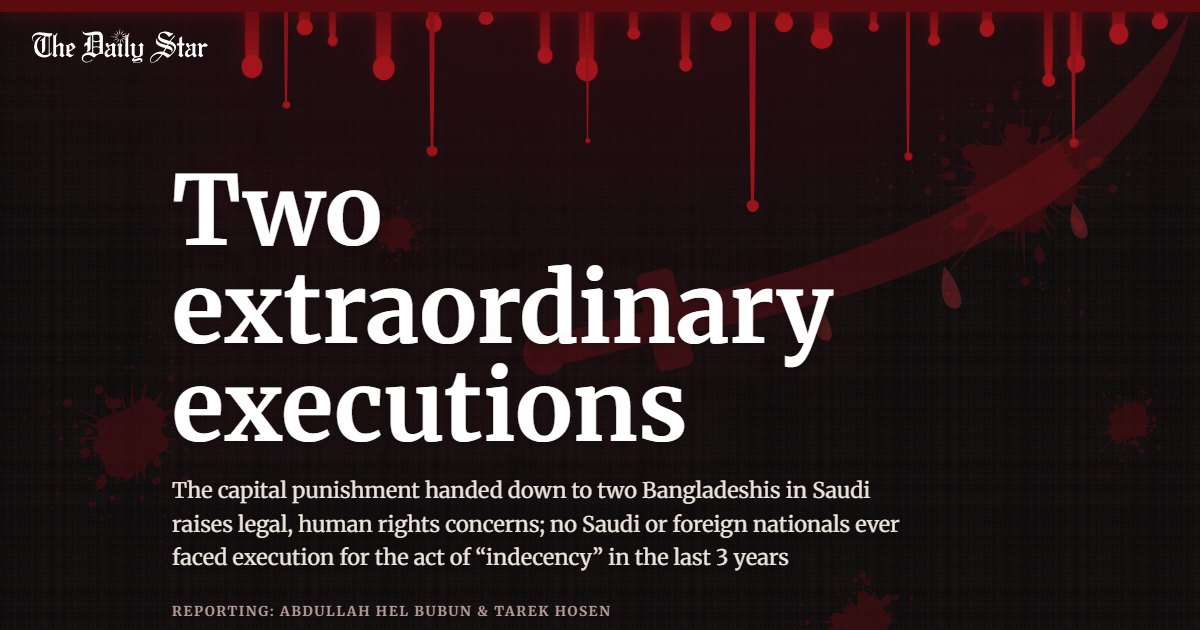
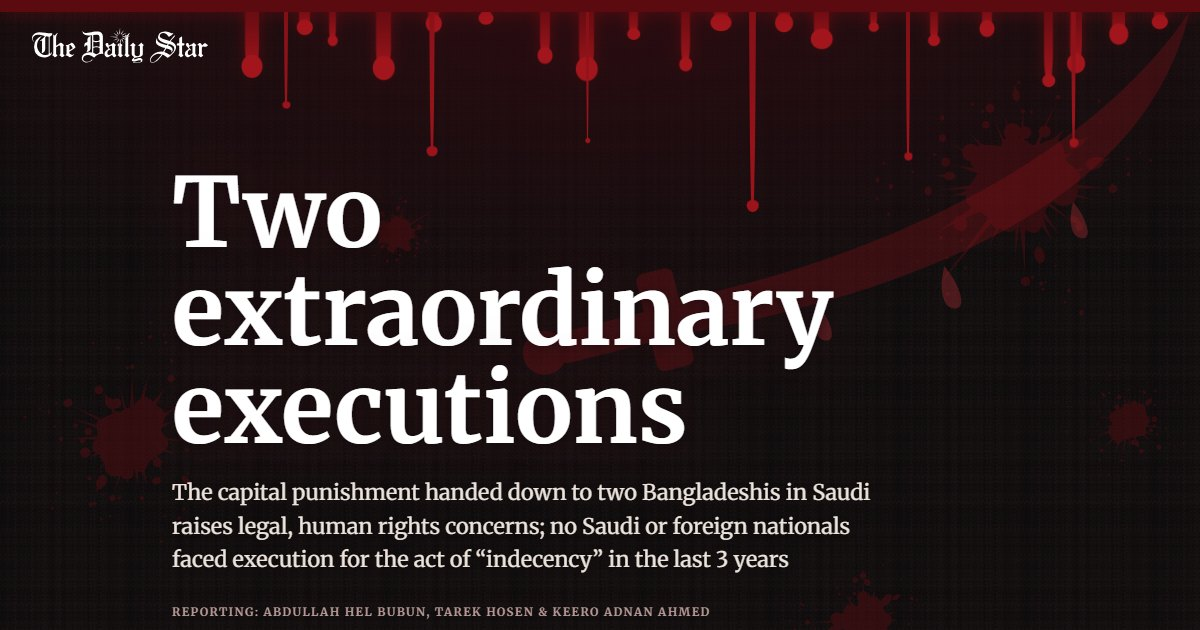
Scene 1's 15 on one row; byline adds Keero Adnan Ahmed; Data Collection credit
- The 15 al-fahisha/sexual-offence figures form one run (2 murder, 11 other, then
  Sweety and Nazrul); the grid keeps that run on one row at every width
- Card 4: "gross sexual misconduct or al-fahisha" back to plain text
- Byline: "Reporting: Abdullah Hel Bubun, Tarek Hosen & Keero Adnan Ahmed", smaller;
  Keero added as author in meta and JSON-LD; share images re-shot
- Footer: "Data Collection: Mir Rownak" replaces "Additional reporting"
- Scene 2 card 2: trailing comma removed

diff --git a/index.html b/index.html
@@ -6,7 +6,7 @@
 <script>(function(l){if(!/(\/|\.html?)$/.test(l.pathname))l.replace(l.pathname+'/'+l.search+l.hash)})(location);document.documentElement.className+=' js'</script>
 <title>Two extraordinary executions | The Daily Star</title>
 <meta name="description" content="A Daily Star analysis of 665 Saudi government execution statements between January 2024 and 20 October 2026 reveals that the execution of Nazrul and Sweety was extremely unusual.">
-<meta name="author" content="Abdullah Hel Bubun, Tarek Hosen">
+<meta name="author" content="Abdullah Hel Bubun, Tarek Hosen, Keero Adnan Ahmed">
 <meta name="keywords" content="Saudi Arabia executions, Saudi Arabia death penalty, Bangladeshi executed in Saudi Arabia, Nazrul Islam Abdul Basir, Sweety Akhtar, Nazrul and Sweety execution, fahisha, indecency execution Makkah, ta'zir, qisas, hudud, Saudi Interior Ministry, Saudi war on drugs, drug-related executions, captagon, foreign nationals executed in Saudi Arabia, migrant workers Saudi Arabia, Bangladeshi migrants, Amnesty International, Reprieve, European Saudi Organization for Human Rights, most serious crimes international law, Islamic law death penalty, Saudi executions 2025, Saudi executions 2026, The Daily Star investigation">
 <meta name="news_keywords" content="Saudi Arabia executions, Saudi Arabia death penalty, Bangladeshi executed in Saudi Arabia, Nazrul Islam Abdul Basir, Sweety Akhtar, Nazrul and Sweety execution, fahisha, indecency execution Makkah, ta'zir, qisas">
 <meta name="robots" content="index, follow, max-image-preview:large, max-snippet:-1, max-video-preview:-1">
@@ -31,6 +31,7 @@
 <meta property="og:updated_time" content="2026-10-29T00:00:00+06:00">
 <meta property="article:author" content="Abdullah Hel Bubun">
 <meta property="article:author" content="Tarek Hosen">
+<meta property="article:author" content="Keero Adnan Ahmed">
 <meta property="article:tag" content="Saudi Arabia executions">
 <meta property="article:tag" content="Saudi Arabia death penalty">
 <meta property="article:tag" content="Bangladeshi executed in Saudi Arabia">
@@ -51,7 +52,7 @@
 <meta name="twitter:description" content="A Daily Star analysis of 665 Saudi government execution statements between January 2024 and 20 October 2026 reveals that the execution of Nazrul and Sweety was extremely unusual.">
 <meta name="twitter:image" content="https://campaign.thedailystar.net/saudi-execution/img/share.jpg">
 <meta name="twitter:image:alt" content="The story’s opening screen: the headline Two extraordinary executions, the standfirst and the byline over blood drips, splatters and a sword">
-<script type="application/ld+json">{"@context": "https://schema.org", "@type": "NewsArticle", "mainEntityOfPage": {"@type": "WebPage", "@id": "https://campaign.thedailystar.net/saudi-execution/"}, "url": "https://campaign.thedailystar.net/saudi-execution/", "headline": "Two extraordinary executions", "alternativeHeadline": "The capital punishment handed down to two Bangladeshis in Saudi raises legal, human rights concerns; no Saudi or foreign nationals faced execution for the act of “indecency” in the last 3 years", "description": "A Daily Star analysis of 665 Saudi government execution statements between January 2024 and 20 October 2026 reveals that the execution of Nazrul and Sweety was extremely unusual.", "image": ["https://campaign.thedailystar.net/saudi-execution/img/share-16x9.jpg", "https://campaign.thedailystar.net/saudi-execution/img/share-4x3.jpg", "https://campaign.thedailystar.net/saudi-execution/img/share-1x1.jpg", "https://campaign.thedailystar.net/saudi-execution/img/share.jpg"], "thumbnailUrl": "https://campaign.thedailystar.net/saudi-execution/img/share.jpg", "datePublished": "2026-10-29T00:00:00+06:00", "dateModified": "2026-10-29T00:00:00+06:00", "inLanguage": "en", "isAccessibleForFree": true, "articleSection": "Investigation", "keywords": ["Saudi Arabia executions", "Saudi Arabia death penalty", "Bangladeshi executed in Saudi Arabia", "Nazrul Islam Abdul Basir", "Sweety Akhtar", "Nazrul and Sweety execution", "fahisha", "indecency execution Makkah", "ta'zir", "qisas", "hudud", "Saudi Interior Ministry", "Saudi war on drugs", "drug-related executions", "captagon", "foreign nationals executed in Saudi Arabia", "migrant workers Saudi Arabia", "Bangladeshi migrants", "Amnesty International", "Reprieve", "European Saudi Organization for Human Rights", "most serious crimes international law", "Islamic law death penalty", "Saudi executions 2025", "Saudi executions 2026", "The Daily Star investigation"], "author": [{"@type": "Person", "name": "Abdullah Hel Bubun"}, {"@type": "Person", "name": "Tarek Hosen"}], "contributor": [{"@type": "Person", "name": "Keero Adnan Ahmed"}, {"@type": "Person", "name": "Mir Rownak"}], "publisher": {"@type": "NewsMediaOrganization", "name": "The Daily Star", "url": "https://www.thedailystar.net/", "logo": {"@type": "ImageObject", "url": "https://campaign.thedailystar.net/saudi-execution/img/logo.png", "width": 600, "height": 60}, "sameAs": ["https://www.facebook.com/dailystarnews", "https://x.com/dailystarnews", "https://www.youtube.com/channel/UCKSJ5rTXq-pYgAmAOhVS_zQ", "https://www.instagram.com/dailystar_bd/", "https://www.linkedin.com/company/thedailystar/"]}, "contentLocation": {"@type": "Place", "name": "Makkah, Saudi Arabia"}, "wordCount": 1944, "copyrightYear": 2026, "copyrightHolder": {"@type": "NewsMediaOrganization", "name": "The Daily Star"}, "about": [{"@type": "Thing", "name": "Capital punishment in Saudi Arabia"}, {"@type": "Thing", "name": "Bangladeshi migrant workers"}], "mentions": [{"@type": "Person", "name": "Nazrul Islam Abdul Basir"}, {"@type": "Person", "name": "Sweety Akhtar"}, {"@type": "Organization", "name": "Amnesty International"}, {"@type": "Organization", "name": "Reprieve"}, {"@type": "Organization", "name": "European Saudi Organization for Human Rights"}, {"@type": "GovernmentOrganization", "name": "Ministry of Interior, Saudi Arabia"}]}</script>
+<script type="application/ld+json">{"@context": "https://schema.org", "@type": "NewsArticle", "mainEntityOfPage": {"@type": "WebPage", "@id": "https://campaign.thedailystar.net/saudi-execution/"}, "url": "https://campaign.thedailystar.net/saudi-execution/", "headline": "Two extraordinary executions", "alternativeHeadline": "The capital punishment handed down to two Bangladeshis in Saudi raises legal, human rights concerns; no Saudi or foreign nationals faced execution for the act of “indecency” in the last 3 years", "description": "A Daily Star analysis of 665 Saudi government execution statements between January 2024 and 20 October 2026 reveals that the execution of Nazrul and Sweety was extremely unusual.", "image": ["https://campaign.thedailystar.net/saudi-execution/img/share-16x9.jpg", "https://campaign.thedailystar.net/saudi-execution/img/share-4x3.jpg", "https://campaign.thedailystar.net/saudi-execution/img/share-1x1.jpg", "https://campaign.thedailystar.net/saudi-execution/img/share.jpg"], "thumbnailUrl": "https://campaign.thedailystar.net/saudi-execution/img/share.jpg", "datePublished": "2026-10-29T00:00:00+06:00", "dateModified": "2026-10-29T00:00:00+06:00", "inLanguage": "en", "isAccessibleForFree": true, "articleSection": "Investigation", "keywords": ["Saudi Arabia executions", "Saudi Arabia death penalty", "Bangladeshi executed in Saudi Arabia", "Nazrul Islam Abdul Basir", "Sweety Akhtar", "Nazrul and Sweety execution", "fahisha", "indecency execution Makkah", "ta'zir", "qisas", "hudud", "Saudi Interior Ministry", "Saudi war on drugs", "drug-related executions", "captagon", "foreign nationals executed in Saudi Arabia", "migrant workers Saudi Arabia", "Bangladeshi migrants", "Amnesty International", "Reprieve", "European Saudi Organization for Human Rights", "most serious crimes international law", "Islamic law death penalty", "Saudi executions 2025", "Saudi executions 2026", "The Daily Star investigation"], "author": [{"@type": "Person", "name": "Abdullah Hel Bubun"}, {"@type": "Person", "name": "Tarek Hosen"}, {"@type": "Person", "name": "Keero Adnan Ahmed"}], "contributor": [{"@type": "Person", "name": "Mir Rownak"}], "publisher": {"@type": "NewsMediaOrganization", "name": "The Daily Star", "url": "https://www.thedailystar.net/", "logo": {"@type": "ImageObject", "url": "https://campaign.thedailystar.net/saudi-execution/img/logo.png", "width": 600, "height": 60}, "sameAs": ["https://www.facebook.com/dailystarnews", "https://x.com/dailystarnews", "https://www.youtube.com/channel/UCKSJ5rTXq-pYgAmAOhVS_zQ", "https://www.instagram.com/dailystar_bd/", "https://www.linkedin.com/company/thedailystar/"]}, "contentLocation": {"@type": "Place", "name": "Makkah, Saudi Arabia"}, "wordCount": 1944, "copyrightYear": 2026, "copyrightHolder": {"@type": "NewsMediaOrganization", "name": "The Daily Star"}, "about": [{"@type": "Thing", "name": "Capital punishment in Saudi Arabia"}, {"@type": "Thing", "name": "Bangladeshi migrant workers"}], "mentions": [{"@type": "Person", "name": "Nazrul Islam Abdul Basir"}, {"@type": "Person", "name": "Sweety Akhtar"}, {"@type": "Organization", "name": "Amnesty International"}, {"@type": "Organization", "name": "Reprieve"}, {"@type": "Organization", "name": "European Saudi Organization for Human Rights"}, {"@type": "GovernmentOrganization", "name": "Ministry of Interior, Saudi Arabia"}]}</script>
 <link rel="icon" href="img/favicon.ico" sizes="16x16">
 <link rel="sitemap" type="application/xml" title="Sitemap" href="sitemap.xml">
 <link rel="preload" href="fonts/merriweather-700.woff2" as="font" type="font/woff2" crossorigin>
@@ -133,7 +134,7 @@ h1:focus{outline:0}
 @media (max-width:420px){h1{font-size:10.2vw}}
 .dek{max-width:34em;margin:0 0 1.6rem;font-size:clamp(1.05rem,.95rem + .6vw,1.35rem);line-height:1.55;color:var(--ink);text-shadow:0 2px 12px rgba(8,5,6,.7)}
 
-.by{font:700 .85rem/1.8 var(--serif);letter-spacing:.12em;text-transform:uppercase;color:var(--dim);margin:0}
+.by{font:700 .72rem/1.8 var(--serif);letter-spacing:.12em;text-transform:uppercase;color:var(--dim);margin:0}
 
 /* ---------- story ---------- */
 main{display:block;padding:clamp(64px,10vh,120px) 0 clamp(48px,8vh,96px)}
@@ -386,13 +387,13 @@ dialog.prm::backdrop{background:rgba(0,0,0,.8)}
 <header class="hero" id="top">
 <div class="hero__art" aria-hidden="true"><div class="hero__glow"></div><svg class="spl" style="left:85%;top:26%;--s:300px;--r:0deg"><use href="#spl3"/></svg><svg class="spl" style="left:11%;top:62%;--s:240px;--r:70deg"><use href="#spl"/></svg><svg class="spl" style="left:72%;top:88%;--s:190px;--r:140deg"><use href="#spl2"/></svg><svg class="spl" style="left:33%;top:33%;--s:100px;--r:200deg"><use href="#spl3"/></svg><svg class="spl" style="left:94%;top:60%;--s:130px;--r:260deg"><use href="#spl"/></svg><svg class="sword" viewBox="0 0 500 220" aria-hidden="true"><path d="M130 118C250 122 400 100 492 18C446 108 330 152 130 140Z"/><rect x="106" y="96" width="24" height="64" rx="5"/><path d="M108 120H52a8 8 0 0 0 0 20h56z"/><circle cx="38" cy="130" r="14"/><path class="dr" d="M300 138c-7 14-8 26 0 28s7-14 0-28zM390 118c-6 12-7 22 0 24s6-12 0-24zM215 140c-6 14-7 24 0 26s6-12 0-26z"/></svg><div class="drips"><i style="left:1.8%;height:67px;width:14px;animation-duration:9.3s;animation-delay:-4.1s"></i><i style="left:7.3%;height:32px;width:11px;animation-duration:10.4s;animation-delay:-6.3s"></i><i style="left:10.4%;height:38px;width:7px;animation-duration:11.7s;animation-delay:-5.5s"></i><i style="left:15.2%;height:69px;width:15px;animation-duration:10.6s;animation-delay:-4.9s"></i><i style="left:20.6%;height:25px;width:11px;animation-duration:6.4s;animation-delay:-1.5s"></i><i style="left:26.0%;height:25px;width:10px;animation-duration:9.1s;animation-delay:-6.7s"></i><i style="left:32.1%;height:53px;width:10px;animation-duration:10.6s;animation-delay:-3.7s"></i><i style="left:36.1%;height:70px;width:15px;animation-duration:11.9s;animation-delay:-5.7s"></i><i style="left:41.3%;height:41px;width:9px;animation-duration:6.5s;animation-delay:-6.1s"></i><i style="left:46.6%;height:63px;width:9px;animation-duration:12.7s;animation-delay:-6.8s"></i><i style="left:50.0%;height:34px;width:14px;animation-duration:9.3s;animation-delay:-7.8s"></i><i style="left:56.6%;height:27px;width:12px;animation-duration:11.4s;animation-delay:-2.2s"></i><i style="left:60.3%;height:49px;width:15px;animation-duration:11.3s;animation-delay:-0.9s"></i><i style="left:66.0%;height:29px;width:7px;animation-duration:11.6s;animation-delay:-1.4s"></i><i style="left:72.2%;height:45px;width:8px;animation-duration:11.1s;animation-delay:-1.0s"></i><i style="left:77.6%;height:29px;width:10px;animation-duration:7.5s;animation-delay:-2.2s"></i><i style="left:83.9%;height:85px;width:9px;animation-duration:12.2s;animation-delay:-1.7s"></i><i style="left:86.6%;height:63px;width:12px;animation-duration:6.7s;animation-delay:-7.9s"></i><i style="left:90.9%;height:36px;width:13px;animation-duration:8.3s;animation-delay:-2.4s"></i><i style="left:95.3%;height:28px;width:11px;animation-duration:7.7s;animation-delay:-4.8s"></i><span class="run w" style="left:6%;--w:4px;--len:44%;--from:0.35"><i></i></span><span class="run" style="left:21%;--w:6px;--len:100%;--from:0.22"><i></i></span><span class="run w" style="left:37%;--w:3px;--len:68%;--from:0.3"><i></i></span><span class="run" style="left:54%;--w:7px;--len:100%;--from:0.3"><i></i></span><span class="run w" style="left:70%;--w:4px;--len:57%;--from:0.4"><i></i></span><span class="run" style="left:87%;--w:5px;--len:83%;--from:0.25"><i></i></span></div><div class="band"></div><div class="pool"></div></div>
 <div class="masthead"><a href="https://www.thedailystar.net" target="_blank" rel="noopener" aria-label="The Daily Star home (opens in a new tab)"><svg class="tds-logo" viewBox="0 0 321.41 63.84" aria-hidden="true"><use href="#tds-logo"/></svg></a></div>
-<div class="hero__body"><h1 tabindex="-1">Two extraordinary executions</h1><p class="dek">The capital punishment handed down to two Bangladeshis in Saudi raises legal, human rights concerns; no Saudi or foreign nationals faced execution for the act of “indecency” in the last 3 years</p><p class="by">Reporting: Abdullah Hel Bubun &amp; Tarek Hosen</p></div>
+<div class="hero__body"><h1 tabindex="-1">Two extraordinary executions</h1><p class="dek">The capital punishment handed down to two Bangladeshis in Saudi raises legal, human rights concerns; no Saudi or foreign nationals faced execution for the act of “indecency” in the last 3 years</p><p class="by">Reporting: Abdullah Hel Bubun, Tarek Hosen &amp; Keero Adnan Ahmed</p></div>
 </header>
 <main id="story">
 <div class="txt"><p>Nazrul Islam Abdul Basir and Sweety Akhtar left Bangladesh for Saudi Arabia in 2022, hoping for a better life. Both used to work as cleaners for a Saudi company called AL-Majal to support their families back home.</p>
 <p>On October 14 this year, the Saudi authorities executed them for committing an act of <mark class="r">‘fahisha’ or gross sexual indecency</mark>, inside a mosque in Makkah. The term al-fahisha encompasses a range of sexual offenses including adultery, fornication, indecent exposure, or severe harassment.</p>
 <p>In a <button type="button" class="prl" id="prOpen" aria-haspopup="dialog">statement</button> announcing the executions, the Saudi Interior Ministry said the punishment reflected the “seriousness and gravity” of the crime which it said violated the <mark class="r">“sanctity of the time and place”</mark>. However, a Daily Star analysis of 665 Saudi government execution statements between January 2024 and 20 October 2026 reveals that the execution was extremely unusual.</p></div>
-<section class="scrolly" id="s1"><div class="sticky"><div class="chart"><div class="legw"><div class="leg" aria-hidden="true"></div></div><div class="plot"><canvas role="img" aria-label="Dot chart: each of the 887 people executed in Saudi Arabia from January 2024 to 20 October 2026, coloured by offence"></canvas><span class="lab"></span><span class="lab"></span></div></div></div><div class="steps"><div class="step"><p>Each icon represents one of the 887 people Saudi Arabia executed over the past three years. Only China and Iran executed more during this period. Rights groups believe the real number is even higher, due to a lack of transparency in Saudi’s official reporting.</p></div><div class="step"><p>Drug-related offences — which right groups stress fail to meet the international legal threshold of a “most serious crime”— accounted for more than half of the executions (<mark class="k k-d">53.78 pc</mark>) carried out.</p></div><div class="step"><p>Murder convictions were responsible for another <mark class="k k-m">34 percent</mark>, often coupled with other charges such as armed robbery and kidnapping.</p></div><div class="step"><p>Armed robbery, terrorism, rape, kidnapping, treason and <mark class="g">gross sexual misconduct or al-fahisha</mark> accounted for another <mark class="k k-o">12 percent</mark>.</p></div><div class="step"><p>The kingdom executed <mark class="k k-s">15 individuals</mark> for al-fahisha or sexual offenses during this period.</p></div><div class="step"><p>Out of those, <mark class="k k-s">13 cases</mark> involved rape or sexual assault—frequently accompanied by violent charges such as murder, kidnapping, or robbery.</p></div><div class="step"><p>Only two individuals—Nazrul and Sweety—were put to death for an act of <mark class="g">fahisha</mark> that involved no victims, force, or additional crimes.</p></div></div></section>
+<section class="scrolly" id="s1"><div class="sticky"><div class="chart"><div class="legw"><div class="leg" aria-hidden="true"></div></div><div class="plot"><canvas role="img" aria-label="Dot chart: each of the 887 people executed in Saudi Arabia from January 2024 to 20 October 2026, coloured by offence"></canvas><span class="lab"></span><span class="lab"></span></div></div></div><div class="steps"><div class="step"><p>Each icon represents one of the 887 people Saudi Arabia executed over the past three years. Only China and Iran executed more during this period. Rights groups believe the real number is even higher, due to a lack of transparency in Saudi’s official reporting.</p></div><div class="step"><p>Drug-related offences — which right groups stress fail to meet the international legal threshold of a “most serious crime”— accounted for more than half of the executions (<mark class="k k-d">53.78 pc</mark>) carried out.</p></div><div class="step"><p>Murder convictions were responsible for another <mark class="k k-m">34 percent</mark>, often coupled with other charges such as armed robbery and kidnapping.</p></div><div class="step"><p>Armed robbery, terrorism, rape, kidnapping, treason and gross sexual misconduct or al-fahisha accounted for another <mark class="k k-o">12 percent</mark>.</p></div><div class="step"><p>The kingdom executed <mark class="k k-s">15 individuals</mark> for al-fahisha or sexual offenses during this period.</p></div><div class="step"><p>Out of those, <mark class="k k-s">13 cases</mark> involved rape or sexual assault—frequently accompanied by violent charges such as murder, kidnapping, or robbery.</p></div><div class="step"><p>Only two individuals—Nazrul and Sweety—were put to death for an act of <mark class="g">fahisha</mark> that involved no victims, force, or additional crimes.</p></div></div></section>
 <div class="txt">
 <p>Duaa Dhainy, a researcher at Berlin-based <a href="https://worldcoalition.org/membre/european-saudi-organization-for-human-rights-esohr/" target="_blank" rel="noopener">European Saudi Organization for Human Rights</a> (ESOHR), called the death penalty for such a non-violent act of indecency “deeply alarming”.</p>
 <p>“The offence (for which Nazrul and Sweety were executed) falls far outside the threshold of the “most serious crimes” under international law, which is restricted to crimes involving intentional killing,” she told this newspaper on October 26.</p>
@@ -429,7 +430,7 @@ dialog.prm::backdrop{background:rgba(0,0,0,.8)}
 <p>For years, human rights groups have called on the Saudi government to put an end to ta’zir executions, as these are not explicitly mandated by Shariah.</p>
 <p>Judges in Saudi Arabia have repeatedly used their discretionary powers (ta’zir) to increase the <mark class="y">severity of punishments</mark>, including by imposing the death penalty, according to a 2025 Amnesty International report.</p>
 <p>The right group also found that ta’zir was the basis for almost half of all (47.5 percent) of all reported executions between January 2014 and January 2025. The Daily Star’s analysis shows that ta’zir-based executions, particularly of non-Saudi nationals, have risen even more steeply over the past three years, with two-thirds capital punishment carried out under this category.</p></div>
-<section class="scrolly" id="s2"><div class="sticky"><div class="chart"><div class="legw"><div class="leg" aria-hidden="true"></div></div><div class="plot"><canvas role="img" aria-label="Dot chart: each of the 887 people executed in Saudi Arabia from January 2024 to 20 October 2026, coloured by punishment category, then the 439 foreign nationals alone"></canvas></div></div></div><div class="steps"><div class="step"><p>Each icon represents one person executed by Saudi authorities between January 2024 and October 2026 (887)</p></div><div class="step"><p>Of the 887 people executed, <mark class="k k-t">64 percent</mark> were under ta’zir,</p></div><div class="step"><p><mark class="k k-q">23 percent</mark> under qisas and <mark class="k k-h">8 percent</mark> under hudud.</p></div><div class="step"><p>Now consider only the foreign nationals executed (439)</p></div><div class="step"><p>An overwhelming <mark class="k k-t">85 percent</mark> of them were executed under ta’zir. Qisas and hudud accounted for the remaining 15 percent.</p></div></div></section>
+<section class="scrolly" id="s2"><div class="sticky"><div class="chart"><div class="legw"><div class="leg" aria-hidden="true"></div></div><div class="plot"><canvas role="img" aria-label="Dot chart: each of the 887 people executed in Saudi Arabia from January 2024 to 20 October 2026, coloured by punishment category, then the 439 foreign nationals alone"></canvas></div></div></div><div class="steps"><div class="step"><p>Each icon represents one person executed by Saudi authorities between January 2024 and October 2026 (887)</p></div><div class="step"><p>Of the 887 people executed, <mark class="k k-t">64 percent</mark> were under ta’zir</p></div><div class="step"><p><mark class="k k-q">23 percent</mark> under qisas and <mark class="k k-h">8 percent</mark> under hudud.</p></div><div class="step"><p>Now consider only the foreign nationals executed (439)</p></div><div class="step"><p>An overwhelming <mark class="k k-t">85 percent</mark> of them were executed under ta’zir. Qisas and hudud accounted for the remaining 15 percent.</p></div></div></section>
 <div class="txt"><h2>Saudi’s ‘war on drugs’</h2>
 <p>Nazrul and Sweety were executed at a time when Saudi Arabia was putting people to death at a pace not seen in decades. The Kingdom executed 356 people in 2025, highest since at least 1990. So far this year, as of October 20, Saudi Arabia has executed at least 186 people, according to this analysis.</p>
 <p>Drug offenses (drug smuggling and trafficking) alone are responsible for nearly two-thirds (65%) of all executions in 2025 and 2026. According to <a href="https://reprieve.org.uk/" target="_blank" rel="noopener">Reprieve</a>, a UK-based human rights organisation, nearly all of these offences are of non-violent nature.</p>
@@ -483,7 +484,7 @@ dialog.prm::backdrop{background:rgba(0,0,0,.8)}
 <a href="https://www.linkedin.com/company/thedailystar/" rel="noopener" target="_blank" aria-label="LinkedIn"><svg aria-hidden="true"><use href="#i-linkedin"/></svg></a>
 </nav>
 <div class="site-footer__credits">
-<p><span>Additional reporting:</span> Keero Adnan Ahmed</p>
+<p><span>Data Collection:</span> Mir Rownak</p>
 <p><span>Planning &amp; Design:</span> Abdullah Hel Bubun</p>
 <p><span>Development:</span> Mir Rownak and Abdullah Hel Bubun</p>
 <p class="site-footer__copy">&copy; 2026 The Daily Star. All rights reserved.</p>
@@ -491,6 +492,6 @@ dialog.prm::backdrop{background:rgba(0,0,0,.8)}
 </div>
 </footer>
 <a class="totop" href="#top" aria-label="Back to top"><svg viewBox="0 0 24 24" aria-hidden="true"><path d="M12 19V5M5.5 11.5 12 5l6.5 6.5"/></svg></a>
-<script src="js/story.js?v=20261029c" defer></script>
+<script src="js/story.js?v=20261029d" defer></script>
 </body>
 </html>

diff --git a/js/story.js b/js/story.js
@@ -53,7 +53,7 @@ function mix(a, b, t) {
 }
 var SIDE = window.matchMedia ? matchMedia('(min-width: 760px) and (min-aspect-ratio: 11/10)') : { matches: false };
 
-function scene(id, L, S) {
+function scene(id, L, S, run) {
   var root = document.getElementById(id); if (!root) return;
   var cv = $('canvas', root), cx = cv.getContext && cv.getContext('2d');
   if (!cx || !window.Path2D || !window.Float32Array) { root.classList.add('nochart'); return; }
@@ -81,12 +81,15 @@ function scene(id, L, S) {
     return (SPR[key] = { c: c, k: kd, ox: ox, oy: oy, w: c.width, h: c.height });
   }
 
-  function grid(list, gw, gh) {
-    var n = list.length, ar = 1.5, c0 = Math.max(1, Math.round(Math.sqrt(n * ar * gw / gh))), best = null;
+  function grid(list, gw, gh, run) {
+    var n = list.length, ar = 1.5, c0 = Math.max(1, Math.round(Math.sqrt(n * ar * gw / gh))), best = null, fit = null;
     for (var c = Math.max(1, c0 - 3); c <= c0 + 3; c++) {
-      var r = Math.ceil(n / c), cw = Math.min(gw / c, gh / r / ar);
-      if (!best || cw > best.cw) best = { c: c, r: r, cw: cw };
+      var r = Math.ceil(n / c), cw = Math.min(gw / c, gh / r / ar), b = { c: c, r: r, cw: cw };
+      if (!best || cw > best.cw) best = b;
+      // a run that must read as one group (scene 1's 15) only takes a column count that keeps it on one row
+      if (run && run.s % c + run.n <= c && (!fit || cw > fit.cw)) fit = b;
     }
+    if (fit) best = fit;
     var ch = best.cw * ar, ox = (gw - best.cw * best.c) / 2, oy = (gh - ch * best.r) / 2, p = { s: ch, x: A().fill(NaN), y: A() };
     list.forEach(function (j, m) { p.x[j] = ox + (m % best.c) * best.cw + best.cw / 2; p.y[j] = oy + Math.floor(m / best.c) * ch + ch / 2; });
     return p;
@@ -98,7 +101,7 @@ function scene(id, L, S) {
         var p = { s: Math.min(100, h * .46), x: A().fill(NaN), y: A() }, dx = Math.min(130, w * .22);
         L.C.forEach(function (j, n) { p.x[j] = w / 2 + (n ? 1 : -1) * dx; p.y[j] = h * .4; });
         pos.C = p;
-      } else pos[k] = grid(L[k], w, h);
+      } else pos[k] = grid(L[k], w, h, k === 'A' ? run : null);
     }
   }
   function targets(n) {
@@ -197,10 +200,13 @@ function scene(id, L, S) {
 guard(function () {
   var cc = cnt(function () { return 1; }, 0), o1 = ['D', 'M', 'O', 'I'];
   // the 15 executed for al-fahisha or sexual offences: offence lists in the names list with rape, sexual assault or
-  // "indecency" (13 + Nazrul and Sweety); each sits last in its group, so they gather at the ends of the murder and other blocks
+  // "indecency" (13 + Nazrul and Sweety). They sit in one run where the murder block meets the other block: murder ones,
+  // then other ones, then Nazrul and Sweety, then the rest of other. Each colour block stays whole on its own card.
   var SX = {};
   [77, 291, 299, 343, 344, 348, 458, 486, 502, 773, 829, 831, 871, SWEETY, NAZRUL].forEach(function (i) { SX[i] = 1; });
-  var A1 = rank(function () { return 1; }, []).sort(function (a, b) { return o1.indexOf(D[a][0]) - o1.indexOf(D[b][0]) || (SX[a] || 0) - (SX[b] || 0) || a - b; });
+  var slot = function (i) { var g = D[i][0]; return g == 'D' ? 0 : g == 'M' ? (SX[i] ? 2 : 1) : g == 'I' ? 4 : SX[i] ? 3 : 5; };
+  var A1 = rank(function () { return 1; }, []).sort(function (a, b) { return slot(a) - slot(b) || a - b; }), r0 = 0;
+  while (!SX[A1[r0]]) r0++;
   var l1 = function (ak) { return legend('887 people executed, 2024–26', ak == null ? [] : o1, ak); };
   var lx = function (k) { return legend('887 people executed, 2024–26', [k], [k]); };
   var f1 = function (show, hi) { return function (x) { var g = x[0] == 'I' && !hi && show.indexOf('I') < 0 ? 'O' : x[0]; return g == 'I' ? [C.I, 1, 1] : show.indexOf(g) >= 0 && !hi ? [C[g], 1] : [G, .35]; }; };
@@ -214,7 +220,7 @@ guard(function () {
     function () { return { l: 'A', leg: lx('S'), f: function (x, i) { return SX[i] ? [C.S, 1] : [G, .35]; } }; },
     function () { return { l: 'A', leg: lx('R'), f: function (x, i) { return SX[i] && x[0] != 'I' ? [C.R, 1] : [G, .35]; } }; },
     function () { return { l: 'C', keep: 1, lab: 1, leg: l1(['I']), f: f1(['D', 'M', 'O', 'I'], 1) }; }
-  ]);
+  ], { s: r0, n: 15 });
 });
 
 // Scene 2: punishment

diff --git a/HANDOVER.md b/HANDOVER.md
@@ -3,11 +3,17 @@
 ## What changed and why
 - **Copy round (Mir, 2026-10-29):** new intro paragraphs 2–3 (red marks on "‘fahisha’ or gross sexual indecency"
   and "sanctity of the time and place"; the press-release dialog now opens from the word "statement"). Dek drops
-  "ever". Scene 1 now has 7 cards: card 4 reads "gross sexual misconduct or al-fahisha" (green), two new cards (15
+  "ever". Scene 1 now has 7 cards: card 4 reads "gross sexual misconduct or al-fahisha" (plain text, Mir; its two dots stay green), two new cards (15
   al-fahisha or sexual-offence cases; 13 of them rape or sexual assault), last card rewritten ("fahisha" green).
   The 15 card lights only those 15 figures in amber (`C.S` #f4b740; card text `k-s` #946400, 5.1:1), the 13 card
   dims Nazrul and Sweety. The 15 are the names-list rows whose offences say rape, sexual assault or "indecency"
-  (D and the names list share one order); each sorts last in its group (`SX` in story.js).
+  (D and the names list share one order). They form one run where the murder block meets the other block (2 murder,
+  11 other, then Sweety and Nazrul; `slot()` in story.js), and the grid only takes a column count that keeps that run
+  on one row (`run` in `grid()`; checked 320 to 1920 wide).
+- **Credits (Mir, 2026-10-29):** byline "Reporting: Abdullah Hel Bubun, Tarek Hosen & Keero Adnan Ahmed", smaller
+  (.72rem); Keero moved from JSON-LD contributor to author, added to meta author and article:author. Footer
+  "Additional reporting" replaced by "Data Collection: Mir Rownak"; llms.txt and README credits match. Share images
+  re-shot. Scene 2 card 2 lost its trailing comma.
 - **Sweety is drawn as a woman:** `WOMAN` path (narrow shoulders, flared dress) for index `SWEETY` in both scenes. Legend green row is "Al-fahisha (Bangladeshis)". Duaa Dhainy's two paragraphs now follow
   scene 1. "hadd/ hudud" → "hudud"; "hadd (singular of hudud) crime"; "according to this analysis." A
   "Methodology Note" disclosure (`details.meth`, no JS) sits between the names band and the footer.

diff --git a/README.md b/README.md
@@ -79,5 +79,5 @@ ever becomes the live host on our domain, nothing needs changing.
 - Share images: `python tools/share_images.py` (needs Python, Playwright and Chrome) re-shoots the hero.
 - If new characters appear in the text, re-subset the fonts (see `CLAUDE.md`).
 
-Credits: reporting Abdullah Hel Bubun and Tarek Hosen; additional reporting Keero Adnan Ahmed;
+Credits: reporting Abdullah Hel Bubun, Tarek Hosen and Keero Adnan Ahmed; data collection Mir Rownak;
 planning & design Abdullah Hel Bubun; development Mir Rownak and Abdullah Hel Bubun.
